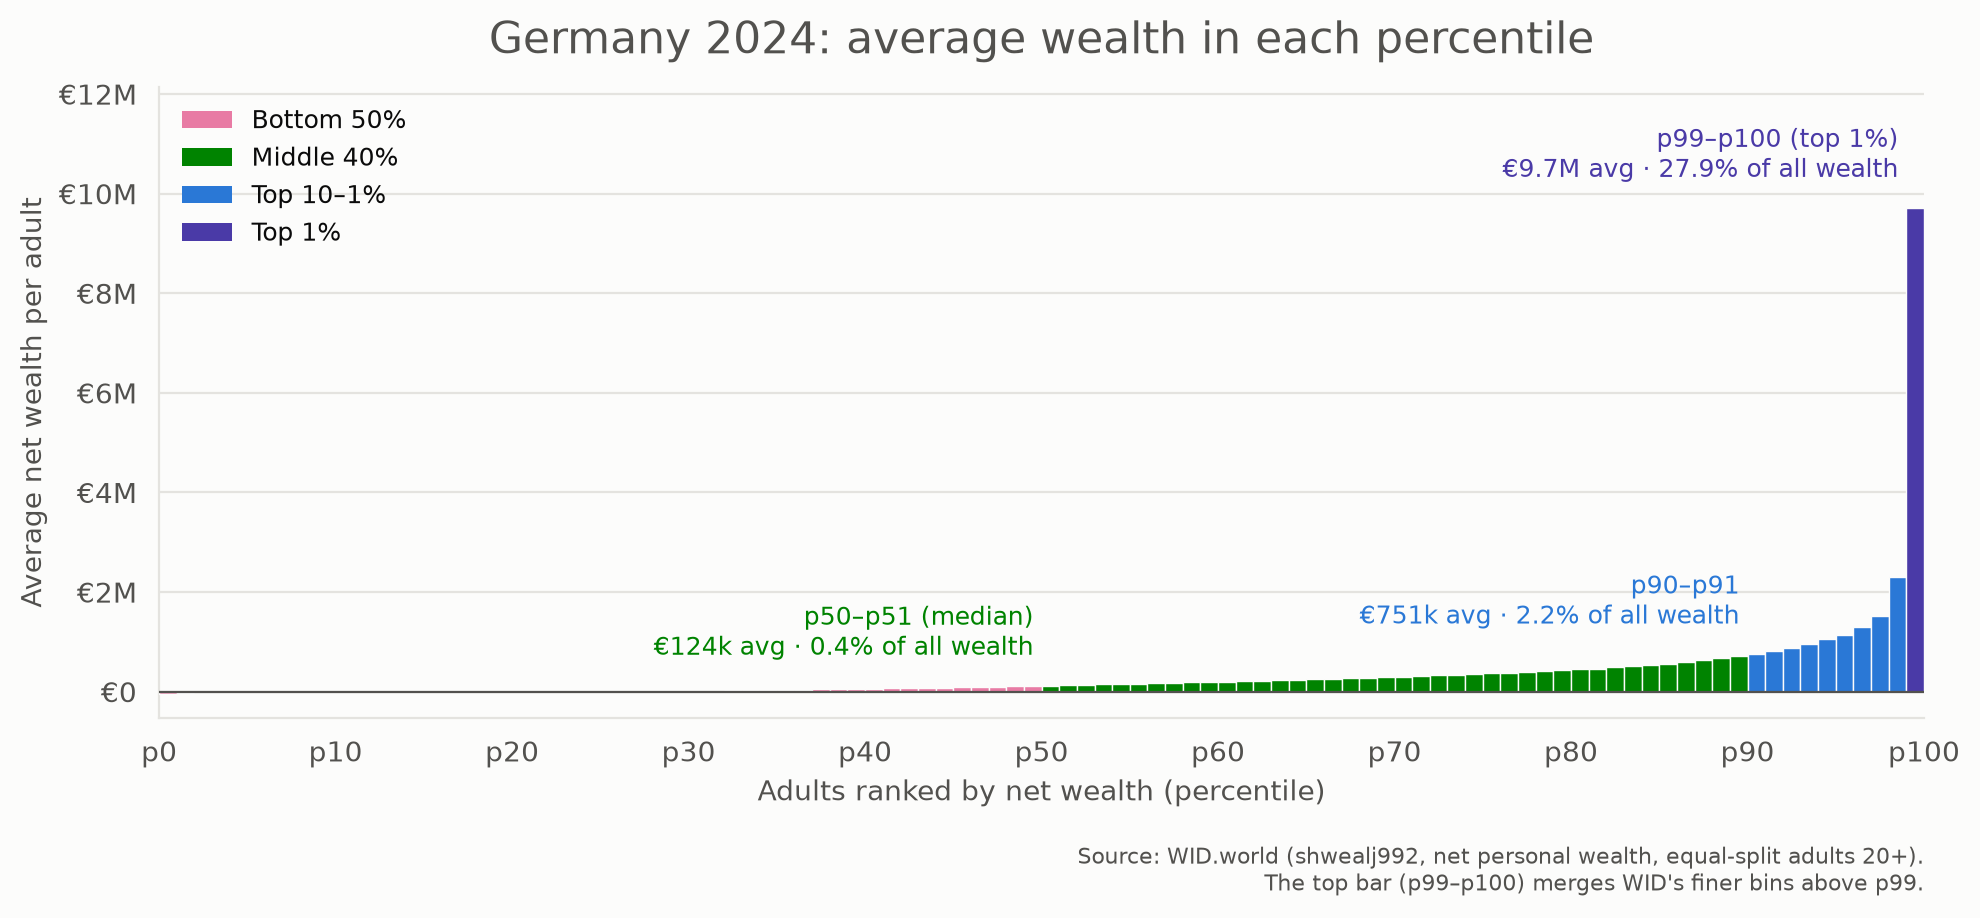
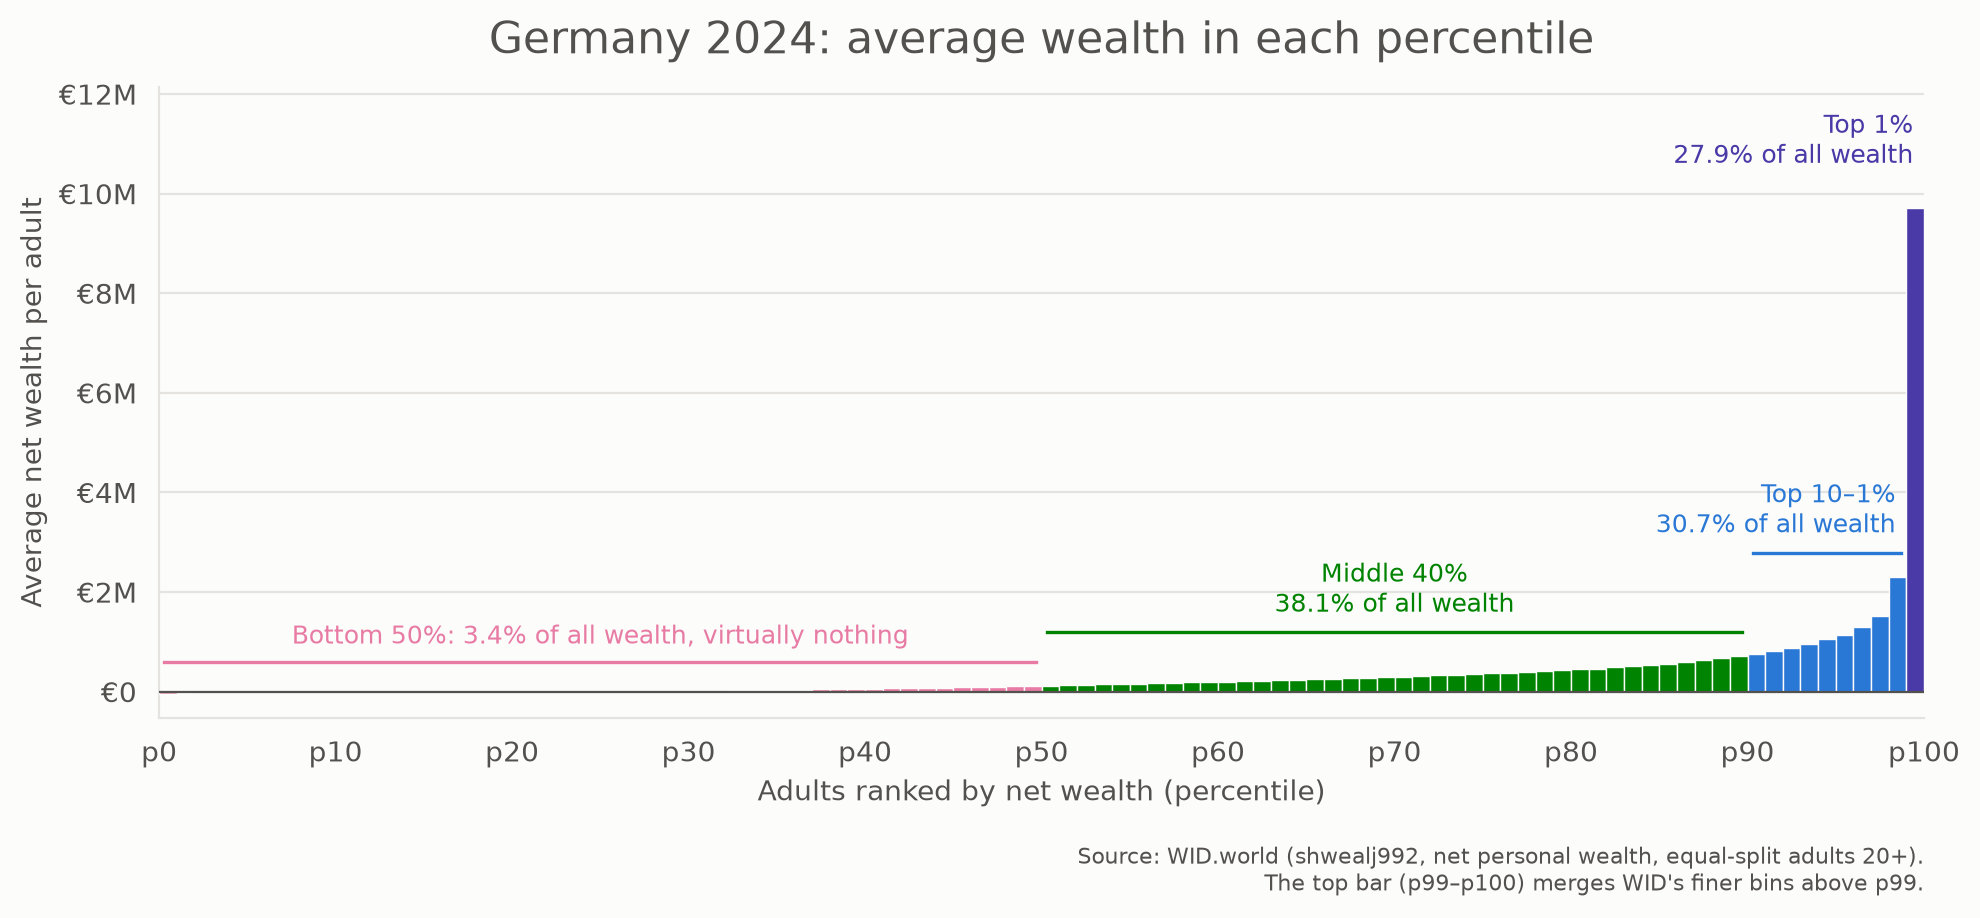
Percentile chart: one share label per group, no legend
Each group gets a bracket over its bars and a label with the share of all
wealth the whole group holds; the bottom 50% is called out as virtually
nothing. The legend is gone since every group is labelled directly.

diff --git a/src/wid/plotting/percentile_bars.py b/src/wid/plotting/percentile_bars.py
@@ -4,26 +4,22 @@ from pathlib import Path
 
 import matplotlib.pyplot as plt
 import polars as pl
-from matplotlib.patches import Patch
 from matplotlib.ticker import FuncFormatter, MultipleLocator
 
 from wid.plotting.bar_of_donut import DONUT_GROUPS
 from wid.plotting.style import (
     GRID,
-    INK,
     INK_SECONDARY,
     LABEL_FONTSIZE,
     SOURCE_NOTE,
     SURFACE,
 )
 
-# Percentiles (pct_lo) whose bars get a value label. Each bar is one percentile
-# (1% of adults), so the labels name the slice, not a cumulative group.
-ANNOTATE_PCT: dict[int, str] = {
-    50: "p50–p51 (median)",
-    90: "p90–p91",
-    99: "p99–p100 (top 1%)",
-}
+# Groups spanning fewer percentiles than this get a right-aligned label ending at
+# the group's right edge, so it does not run off the chart.
+CENTRED_LABEL_MIN_WIDTH = 20
+NARROW_LABEL_INSET = 0.6  # percentiles; keeps text off the neighbouring bar
+LABEL_LIFT = 0.04  # fraction of the y range between a group's tallest bar and label
 
 
 def group_color(pct_lo: int) -> str:
@@ -40,13 +36,6 @@ def format_eur(value: float, _pos: int | None = None) -> str:
     if abs(value) >= 1e3:
         return f"€{value / 1e3:g}k"
     return f"€{value:g}"
-
-
-def format_eur_rounded(value: float) -> str:
-    """Value labels: €9.7M, €751k."""
-    if abs(value) >= 1e6:
-        return f"€{value / 1e6:.1f}M"
-    return f"€{value / 1e3:.0f}k"
 
 
 def plot_percentile_bars(df_pct: pl.DataFrame, year: int, out_path: Path) -> None:
@@ -68,24 +57,37 @@ def plot_percentile_bars(df_pct: pl.DataFrame, year: int, out_path: Path) -> Non
     )
     ax.axhline(0, color=INK_SECONDARY, linewidth=0.8, zorder=4)
 
-    for p, name in ANNOTATE_PCT.items():
-        i = pct.index(p)
-        ax.annotate(
-            f"{name}\n{format_eur_rounded(avg[i])} avg · {share[i]:.1%} of all wealth",
-            xy=(p + 0.5, max(avg[i], 0)),
-            xytext=(-6, 8),
-            textcoords="offset points",
-            ha="right",
+    y_top = max(avg) * 1.25  # room for the top-1% label
+    lift = LABEL_LIFT * y_top
+    # One label per group with the share of all wealth the whole group holds.
+    for spec in DONUT_GROUPS:
+        x0, x1 = 100 - spec.upper, 100 - spec.lower
+        idx = [i for i, p in enumerate(pct) if x0 <= p < x1]
+        group_share = sum(share[i] for i in idx)
+        y = max(max(avg[i] for i in idx), 0.0) + lift
+        if spec.upper == 100.0:
+            text = f"{spec.name}: {group_share:.1%} of all wealth, virtually nothing"
+        else:
+            text = f"{spec.name}\n{group_share:.1%} of all wealth"
+        wide = x1 - x0 >= CENTRED_LABEL_MIN_WIDTH
+        if x1 - x0 > 1:
+            # Bracket over the group's bars.
+            ax.plot([x0 + 0.3, x1 - 0.3], [y, y], color=spec.color, linewidth=1.2)
+        ax.text(
+            (x0 + x1) / 2 if wide else x1 - NARROW_LABEL_INSET,
+            y + lift / 2,
+            text,
+            ha="center" if wide else "right",
             va="bottom",
             fontsize=LABEL_FONTSIZE,
-            color=group_color(p),
+            color=spec.color,
         )
 
     ax.set_xlim(0, 100)
     ax.xaxis.set_major_locator(MultipleLocator(10))
     ax.xaxis.set_major_formatter(FuncFormatter(lambda v, _: f"p{v:g}"))
     ax.yaxis.set_major_formatter(FuncFormatter(format_eur))
-    ax.set_ylim(top=max(avg) * 1.25)  # room for the top-1% label
+    ax.set_ylim(top=y_top)
     ax.set_xlabel("Adults ranked by net wealth (percentile)", color=INK_SECONDARY)
     ax.set_ylabel("Average net wealth per adult", color=INK_SECONDARY)
     ax.set_title(
@@ -93,13 +95,6 @@ def plot_percentile_bars(df_pct: pl.DataFrame, year: int, out_path: Path) -> Non
         color=INK_SECONDARY,
         fontsize=16,
         pad=12,
-    )
-    ax.legend(
-        handles=[Patch(facecolor=s.color, label=s.name) for s in DONUT_GROUPS],
-        loc="upper left",
-        frameon=False,
-        fontsize=LABEL_FONTSIZE,
-        labelcolor=INK,
     )
 
     ax.grid(True, axis="y", color=GRID, linewidth=0.8, zorder=0)
